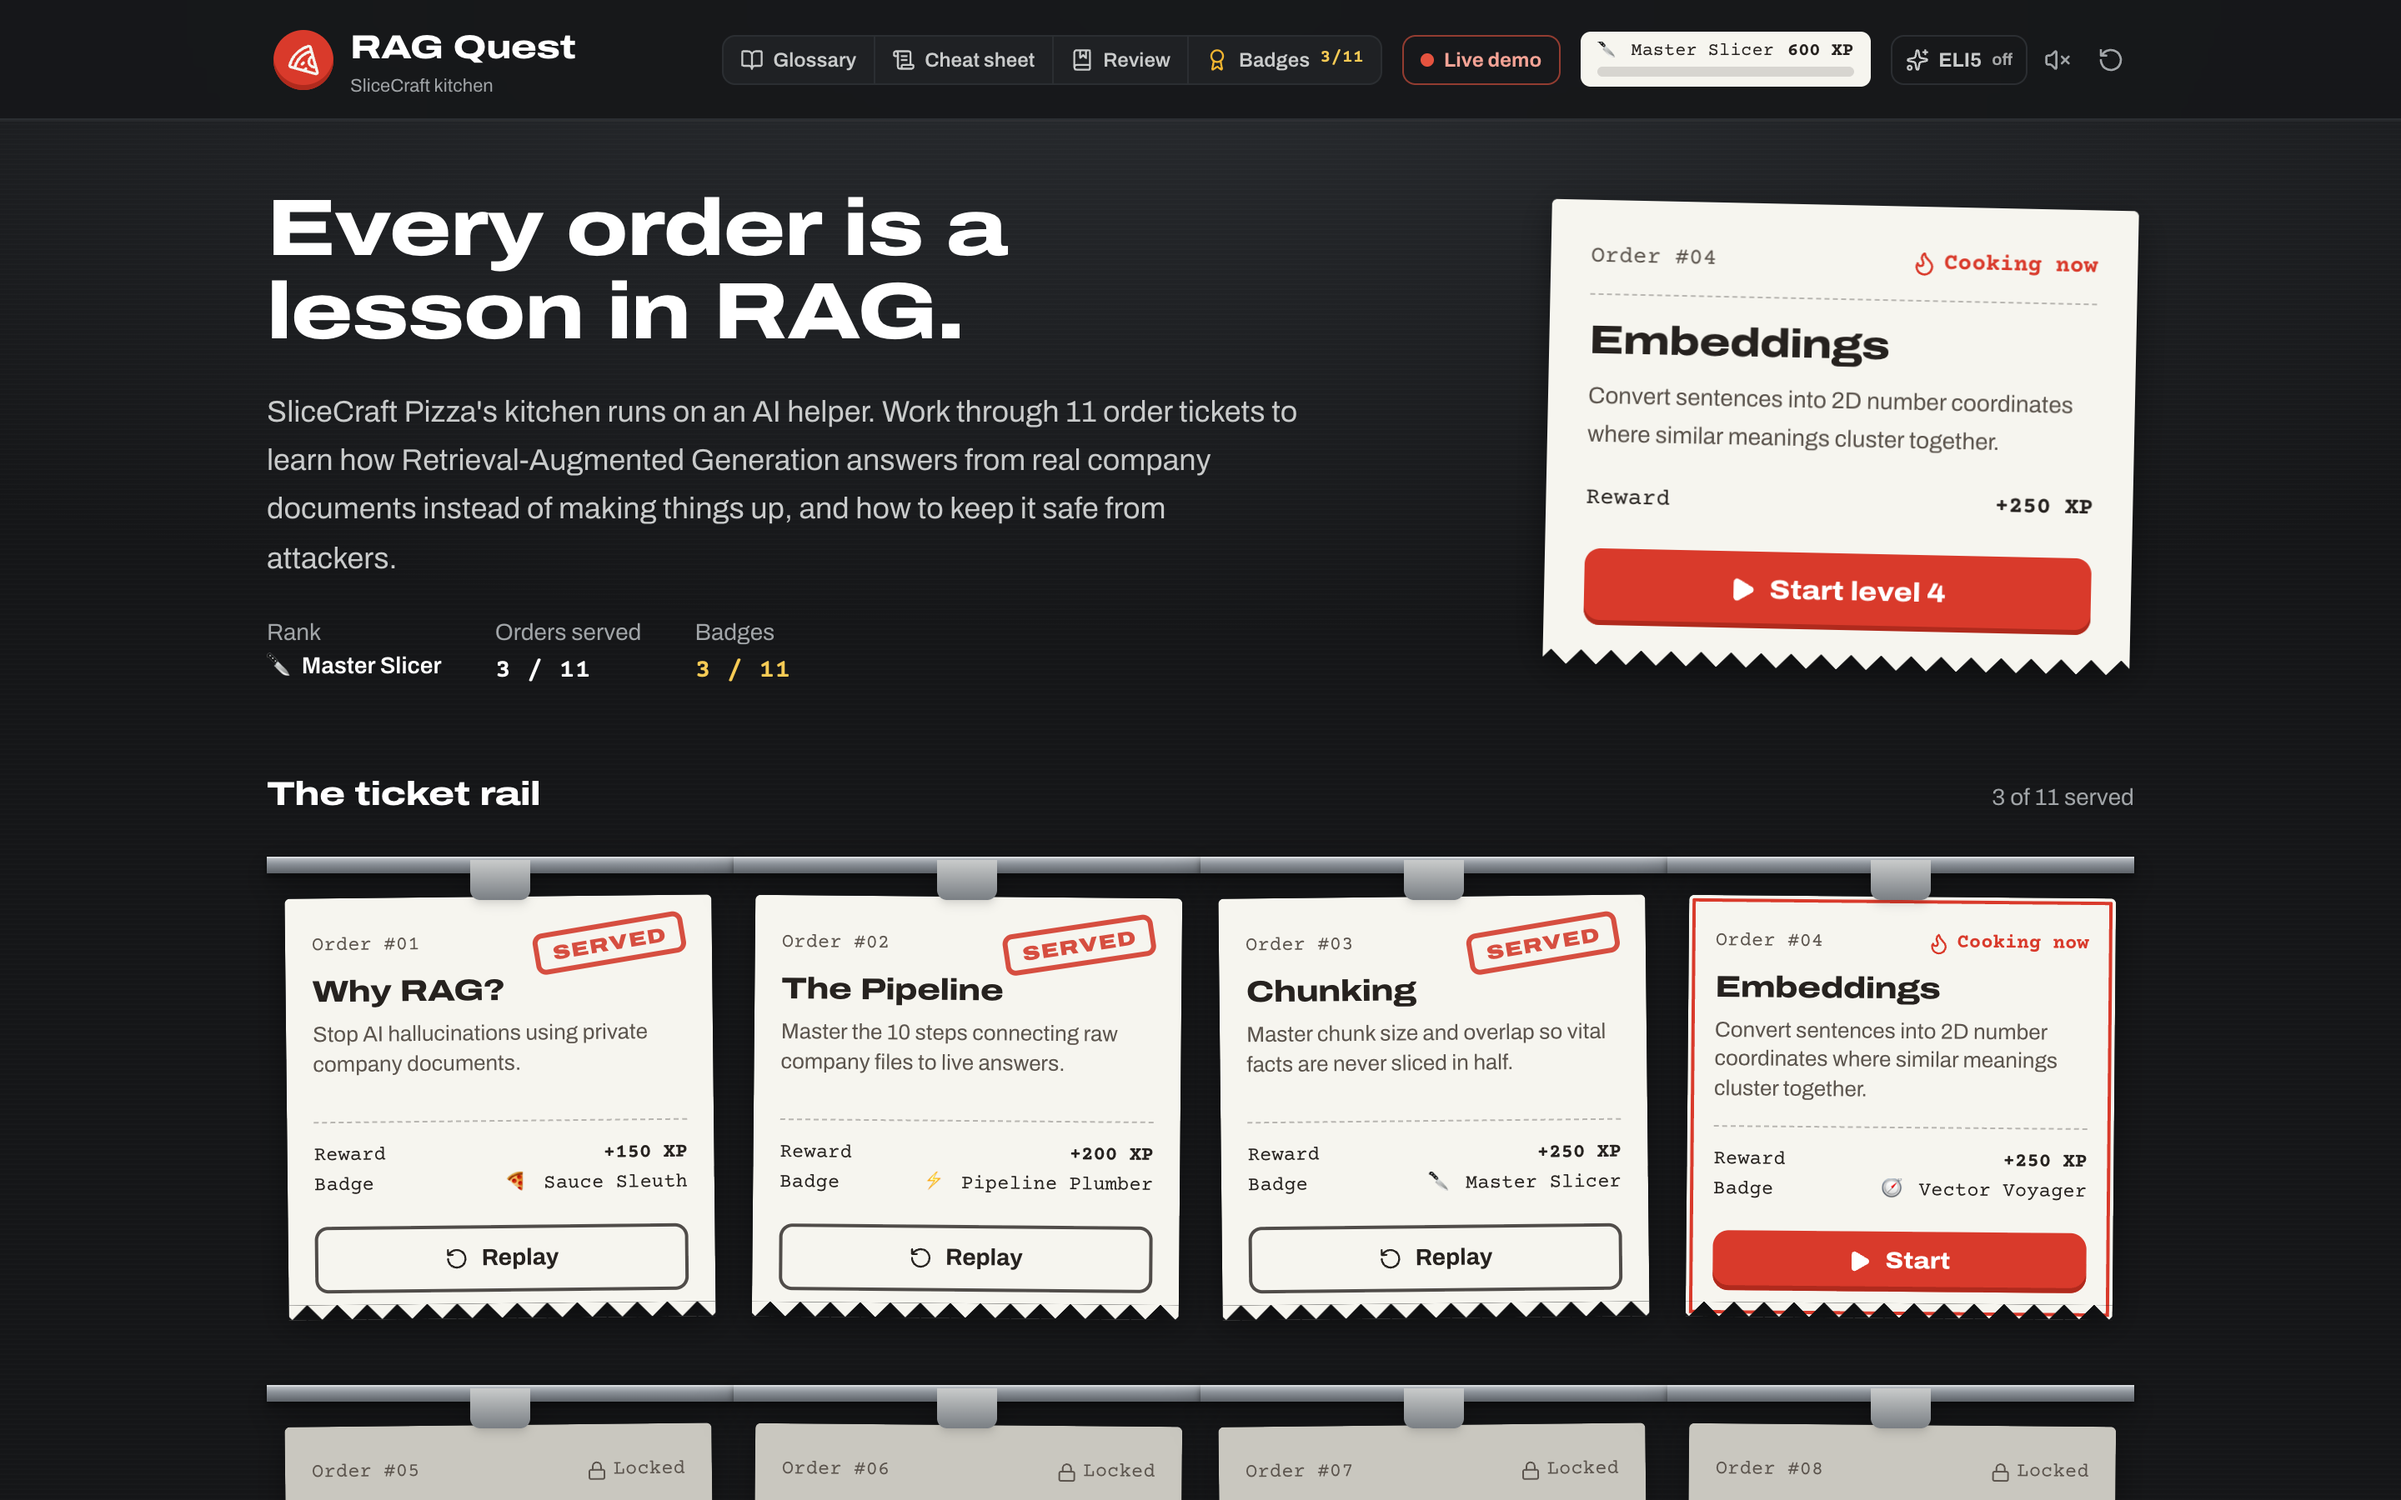
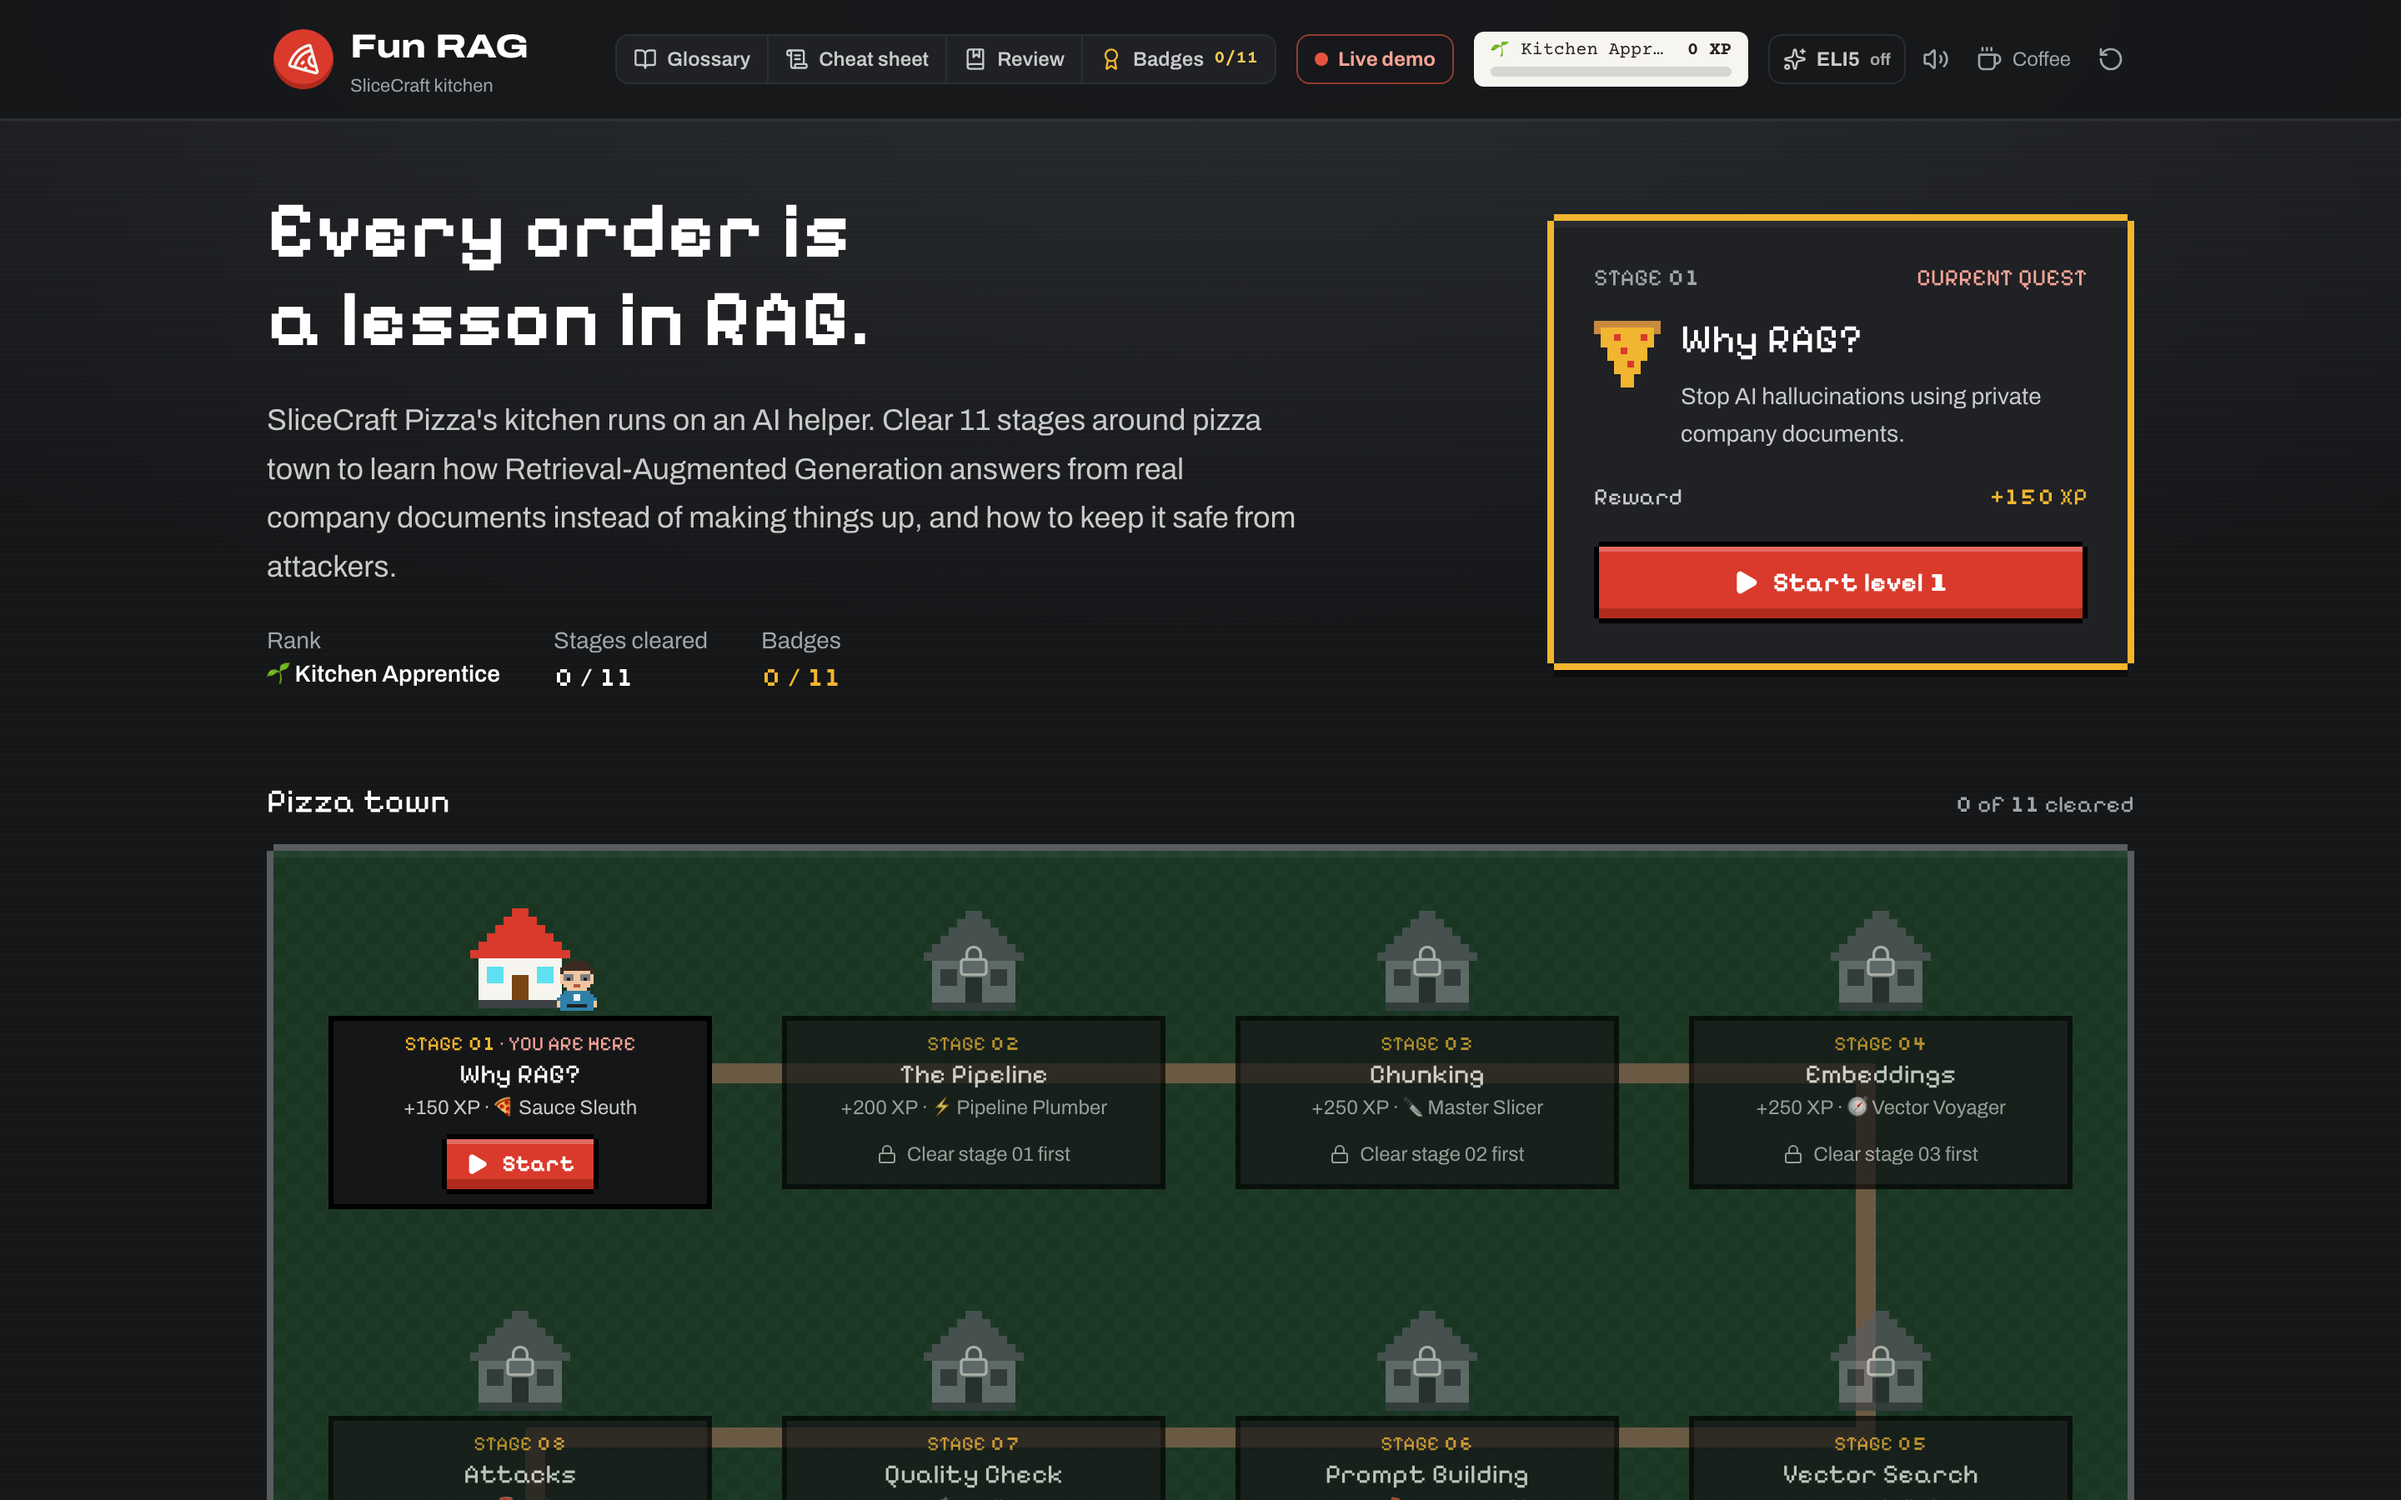
Update showcase for Fun RAG: new name, live site link, public mode and current screenshots

diff --git a/README.md b/README.md
@@ -1,23 +1,44 @@
-# RAG Quest
+# Fun RAG
 
-AI chatbots are great at sounding confident, even when they're making things up. **Retrieval-Augmented Generation (RAG)** is how real companies fix that: the AI looks up answers in the company's own documents first, then answers only from what it found. RAG Quest is a browser game that teaches how RAG works, and how to keep it secure, through 11 short levels set in the kitchen of a pizza company called SliceCraft.
+**[Play it live: https://fun-rag.duckdns.org/](https://fun-rag.duckdns.org/)**
 
-Each level is an order ticket on the kitchen's ticket rail. You read the story, learn the idea, play a hands-on mini-game, take a quiz, and explain it back in your own words. Finished orders get stamped **SERVED**.
+AI chatbots are great at sounding confident, even when they're making things up. **Retrieval-Augmented Generation (RAG)** is how real companies fix that: the AI looks up answers in the company's own documents first, then answers only from what it found. Fun RAG is a browser game that teaches how RAG works, and how to keep it secure, through 11 short stages set around a pizza company called SliceCraft.
+
+Each stage has a story, a lesson, a hands-on mini-game, a quiz and a short "explain it in your own words" step. Clear a stage to unlock the next house on the pizza-town map.
 
 The game also ships with a **live RAG demo**: a real AI answering questions about a mock SliceCraft store handbook, showing every step of the pipeline and every security check along the way.
+
+> Formerly called **RAG Quest**.
+
+---
+
+## Try it
+
+| | |
+|---|---|
+| **The game** | https://fun-rag.duckdns.org/ (free, no account, no API key) |
+| **The live demo** | https://fun-rag.duckdns.org/#demo |
+
+The game runs entirely in your browser. The live demo is a public, **bring-your-own-key** app: you sign in and use your own OpenRouter key, so your questions are billed to you and never to the site owner. The demo shows an estimated cost for each model before you ask anything. Guest Customer questions are open to everyone; the Line Cook and Store Manager roles need an account.
 
 ---
 
 ## Features
 
-- **11 hands-on levels**: hallucinations, the RAG pipeline, chunking, embeddings, vector search, safe prompt building, debugging bad answers, the 8 main attacks on RAG apps, spotting vulnerable code, defense in depth, and auditing AI-written code
-- **Interactive mini-games**: slice a handbook into chunks with live sliders, plot meanings on an embedding map, tune search cutoffs, and build an attack-proof pipeline
+- **11 hands-on stages**: hallucinations, the RAG pipeline, chunking, embeddings, vector search, safe prompt building, debugging bad answers, the 8 main attacks on RAG apps, spotting vulnerable code, defense in depth, and auditing AI-written code
+- **Pixel-art pizza town**: a map where each stage is a house that unlocks as you progress, with XP, badges and ranks
+- **Training Room and mini-games**: slice a handbook into chunks with live sliders, plot meanings on an embedding map, tune search cutoffs, and build an attack-proof pipeline
+- **Boss-battle quizzes, teach-back and rewards**: prove you understood each stage, then open the reward chest
+- **Code Quest**: short challenges about each stage's code. Fill the gap, put the lines in order, or find the bug
 - **Live RAG demo**: ask a real AI as a guest, cook or manager, and watch the retrieved chunks and their scores, what your role hides, the exact prompt sent to the AI, and the cited answer
-- **See how the code works**: follow your question through the pipeline's Python code in 7 stages, from receiving the question to checking the AI's answer, with a plain-English explanation on every line. Each step of the live demo links to its stage. The code is simplified, and security-sensitive details are left out on purpose
-- **Security built in and shown**: input validation, a prompt-injection filter, role-based access control, a relevance cutoff, and a poisoned-document quarantine, each shown passing or blocking in real time
+- **Pick your model**: Gemma 4 26B, Gemma 4 31B or Phi-4, with the tokens used and the cost OpenRouter reported shown after each answer
+- **Policy documents tab**: read the handbook yourself and check the AI's answers against it
+- **See how the code works**: follow your question through the pipeline's Python code stage by stage, with a plain-English explanation on every line. The code is simplified, and security-sensitive details are left out on purpose
+- **Security built in and shown**: input validation, a prompt-injection filter, role-based access control, a relevance cutoff, a poisoned-document quarantine, and a check that the AI's answer really cites what it retrieved, each shown passing or blocking in real time
+- **Safe public accounts**: passwords are hashed, API keys are stored encrypted, can be deleted at any time, and are never shown back to the browser, and the demo has rate limits to stop abuse
+- **Glossary, Cheat Sheet and Review mode**: look things up, download a one-page security cheat sheet, or replay finished stages
 - **Explain Like I'm 5 mode** switches every lesson to simple, kid-friendly wording
-- **Progress, XP, badges and ranks** saved only in your browser: no account, no tracking
-- **Downloadable security cheat sheet** covering the whole pipeline on one page
+- **Progress saved only in your browser**: no tracking
 - **Accessible**: full keyboard support, screen-reader labels, and respects "reduce motion"
 
 ---
@@ -31,40 +52,23 @@ The game also ships with a **live RAG demo**: a real AI answering questions abou
 ![Python](https://img.shields.io/badge/Python-3.11%2B-3776AB?logo=python&logoColor=white)
 ![FastAPI](https://img.shields.io/badge/FastAPI-backend-009688?logo=fastapi&logoColor=white)
 ![ChromaDB](https://img.shields.io/badge/ChromaDB-vector%20DB-orange)
-![OpenRouter](https://img.shields.io/badge/OpenRouter-Gemma%204-6B4FBB)
+![SQLite](https://img.shields.io/badge/SQLite-accounts-003B57?logo=sqlite&logoColor=white)
+![OpenRouter](https://img.shields.io/badge/OpenRouter-Gemma%204%20%7C%20Phi--4-6B4FBB)
+![Docker](https://img.shields.io/badge/Docker-deployed-2496ED?logo=docker&logoColor=white)
+![Traefik](https://img.shields.io/badge/Traefik-HTTPS-24A1C1?logo=traefikproxy&logoColor=white)
 ![Security](https://img.shields.io/badge/Security-injection%20filter%20%2B%20RBAC-red)
 
 ---
 
 ## Screenshots
 
-**The ticket rail.** Every level is an order ticket. The next one to play is featured up top.
+**Pizza town.** Every stage is a house on the map. The next one to play is featured up top.
 
-![Home screen with the featured ticket](screenshots/01-home.png)
+![Home screen with the pizza-town map](screenshots/01-home.png)
 
-![The ticket rail with served, current and locked levels](screenshots/02-ticket-rail.png)
+**The live RAG demo.** Pick a role and a model, then try a suggested question (including a prompt-injection attack and a poisoned document) or ask your own.
 
-**Inside a level.** A story told through kitchen chat, then hands-on mini-games like the chunking lab.
-
-![Story step for the Embeddings level](screenshots/03-story.png)
-
-![The Goldilocks chunking lab mini-game](screenshots/04-minigame.png)
-
-**The live RAG demo.** A real AI answer, grounded in the handbook with citations, next to each pipeline step.
-
-![Live demo answering a refund question with citations](screenshots/05-live-demo.png)
-
-**Security in action.** A prompt-injection attempt is stopped at the input filter, before anything is retrieved or the AI is ever called.
-
-![Prompt injection attempt blocked](screenshots/06-injection-blocked.png)
-
-**Finish all 11 levels** and the final receipt comes out stamped.
-
-![RAG Hero completion screen](screenshots/07-rag-hero.png)
-
-**Works on phones too.**
-
-<img src="screenshots/08-mobile.png" alt="RAG Quest on a phone" width="320">
+![Live demo chat page with role picker and suggested questions](screenshots/02-live-demo.png)
 
 ---
 
